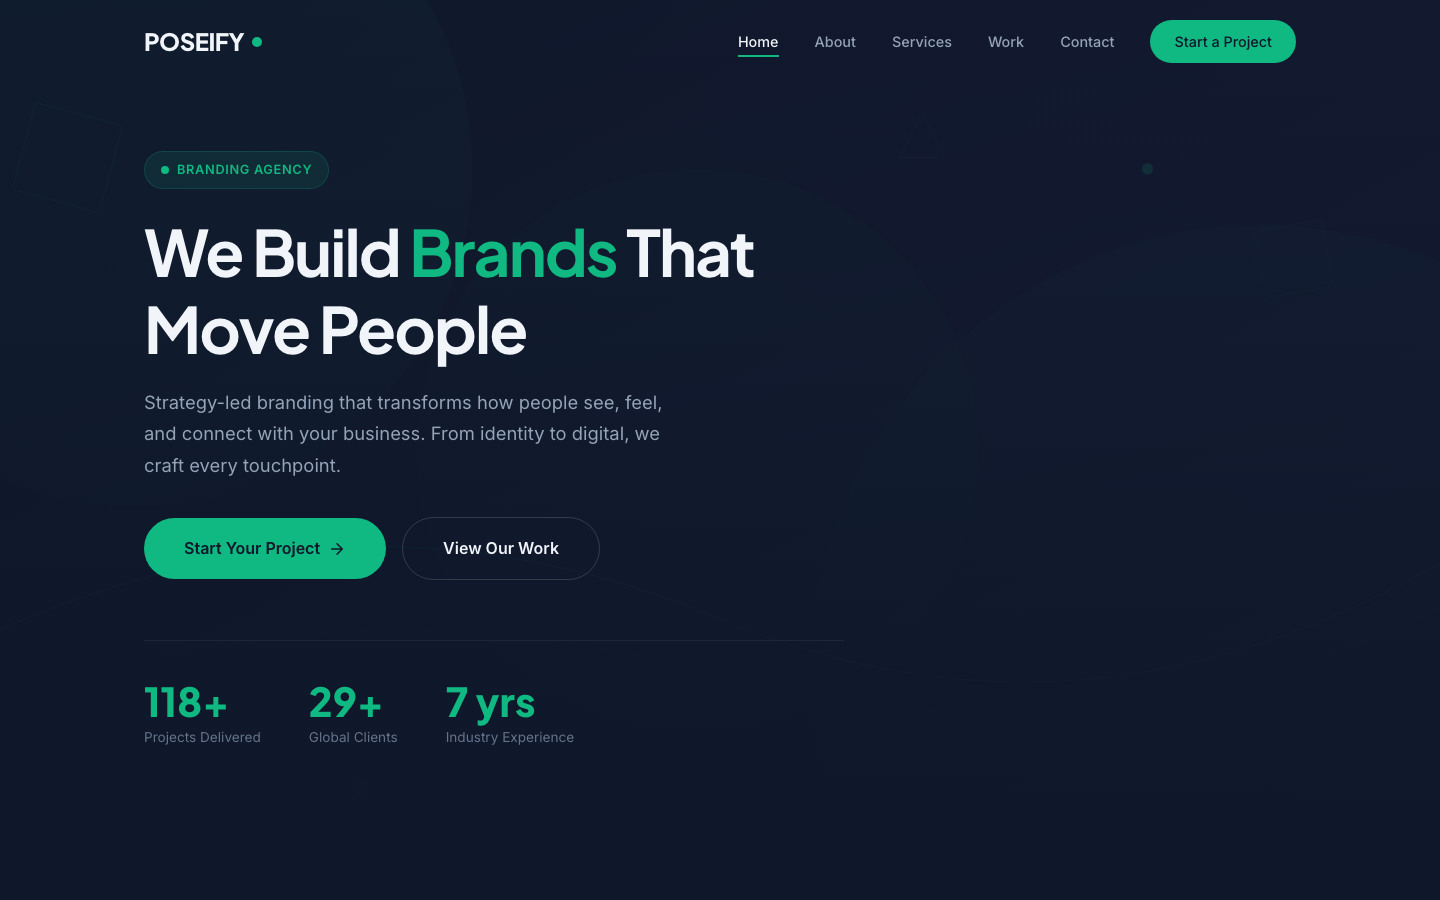
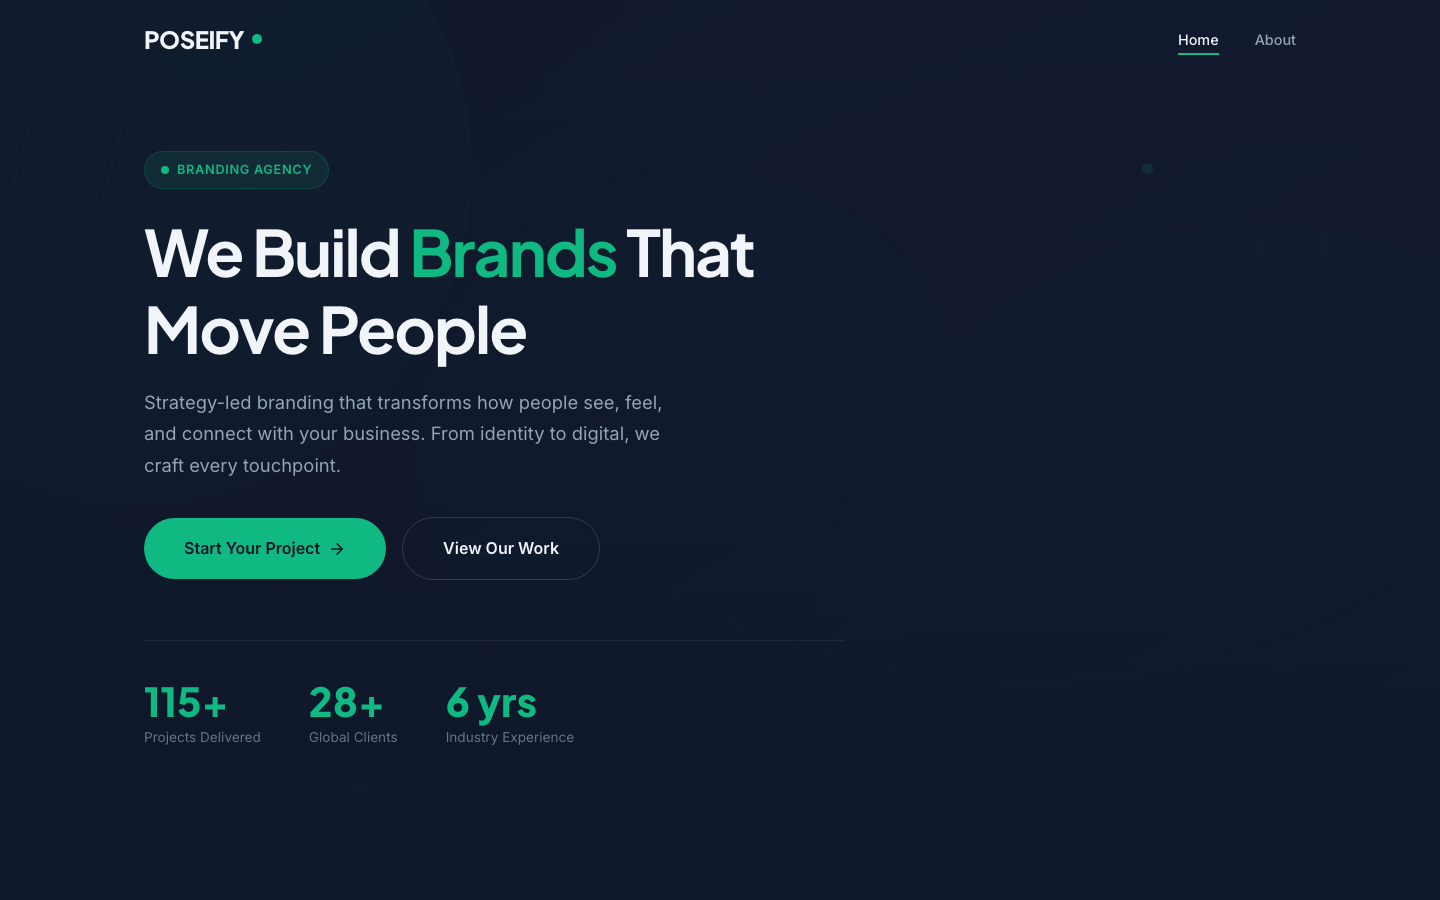
v1.0.5

diff --git a/README.md b/README.md
@@ -1,0 +1,47 @@
+# POSEIFY — Branding Agency HTML Template
+
+A premium, framework-free HTML template for branding and creative agencies. POSEIFY features a striking emerald-on-dark palette, bold typography, and a confident, modern feel built to showcase brand strategy, visual identity, and digital experience work.
+
+## 📸 Screenshot
+
+![Homepage Preview](screenshot.png)
+
+## 🎨 Design System
+
+| Token | Value | Usage |
+|-------|-------|-------|
+| `--emerald` | `#10B981` | Primary accent, CTAs, highlights |
+| `--emerald-dark` | `#059669` | Hover states, dark-section accents |
+| `--dark` | `#0F172A` | Backgrounds, footer, headings |
+| `--dark-card` | `#1a2332` | Cards, section surfaces |
+| `--text-primary` | `#f1f5f9` | Headings, primary text |
+| `--text-secondary` | `#94a3b8` | Body text |
+| Headings | Plus Jakarta Sans (600/700/800) | Bold display type |
+| Body | Inter (400–700) | Clean geometric sans |
+
+## 📄 Pages
+
+| Page | Description | Sections |
+|------|-------------|----------|
+| [index.html](index.html) | Home | Hero, services (3), featured work (3), process (Discover → Define → Design → Deliver), testimonials, CTA, contact |
+| [about.html](about.html) | Company story | Mission & vision split, values (5), team (4) |
+
+## ⚙ Tech Stack
+
+- **HTML5** — semantic markup, accessibility-first
+- **CSS3** — custom properties, Grid, Flexbox, `clamp()`
+- **Vanilla JS** — IntersectionObserver scroll reveals, animated counters, portfolio filtering, contact-form validation, back-to-top
+- **Fonts** — Google Fonts (Plus Jakarta Sans + Inter)
+- No frameworks, no build step, no dependencies
+
+## 📁 Images
+
+All imagery lives in `assets/img/` — 38 files including service icons (branding, identity, strategy, campaign, digital), work visuals, team portraits (8), testimonials, and layered SVG backgrounds.
+
+---
+
+**Template by uiuxlabz** — framework-free, responsive, production-ready.
+
+### Let's Build Something Together 🚀
+
+[https://tally.so/r/q4q1L9](https://tally.so/r/q4q1L9)
